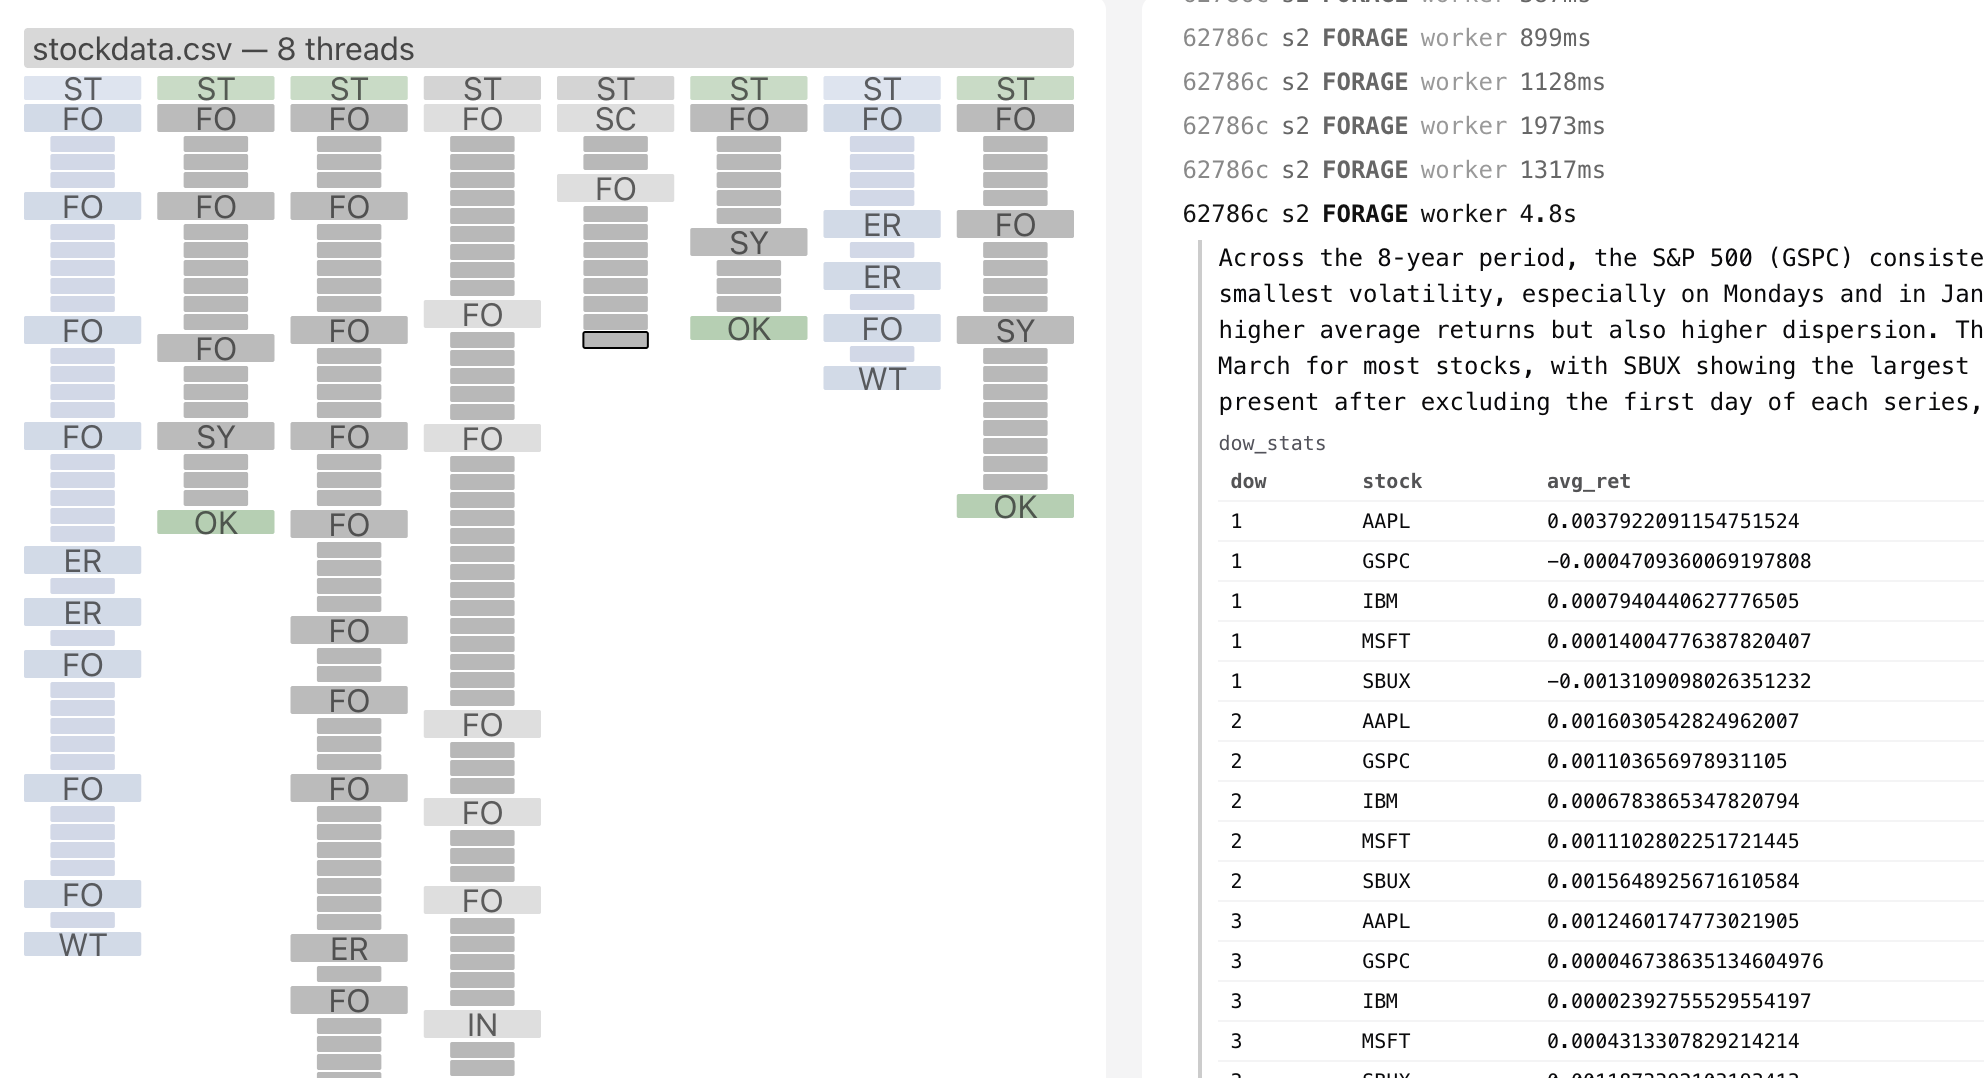
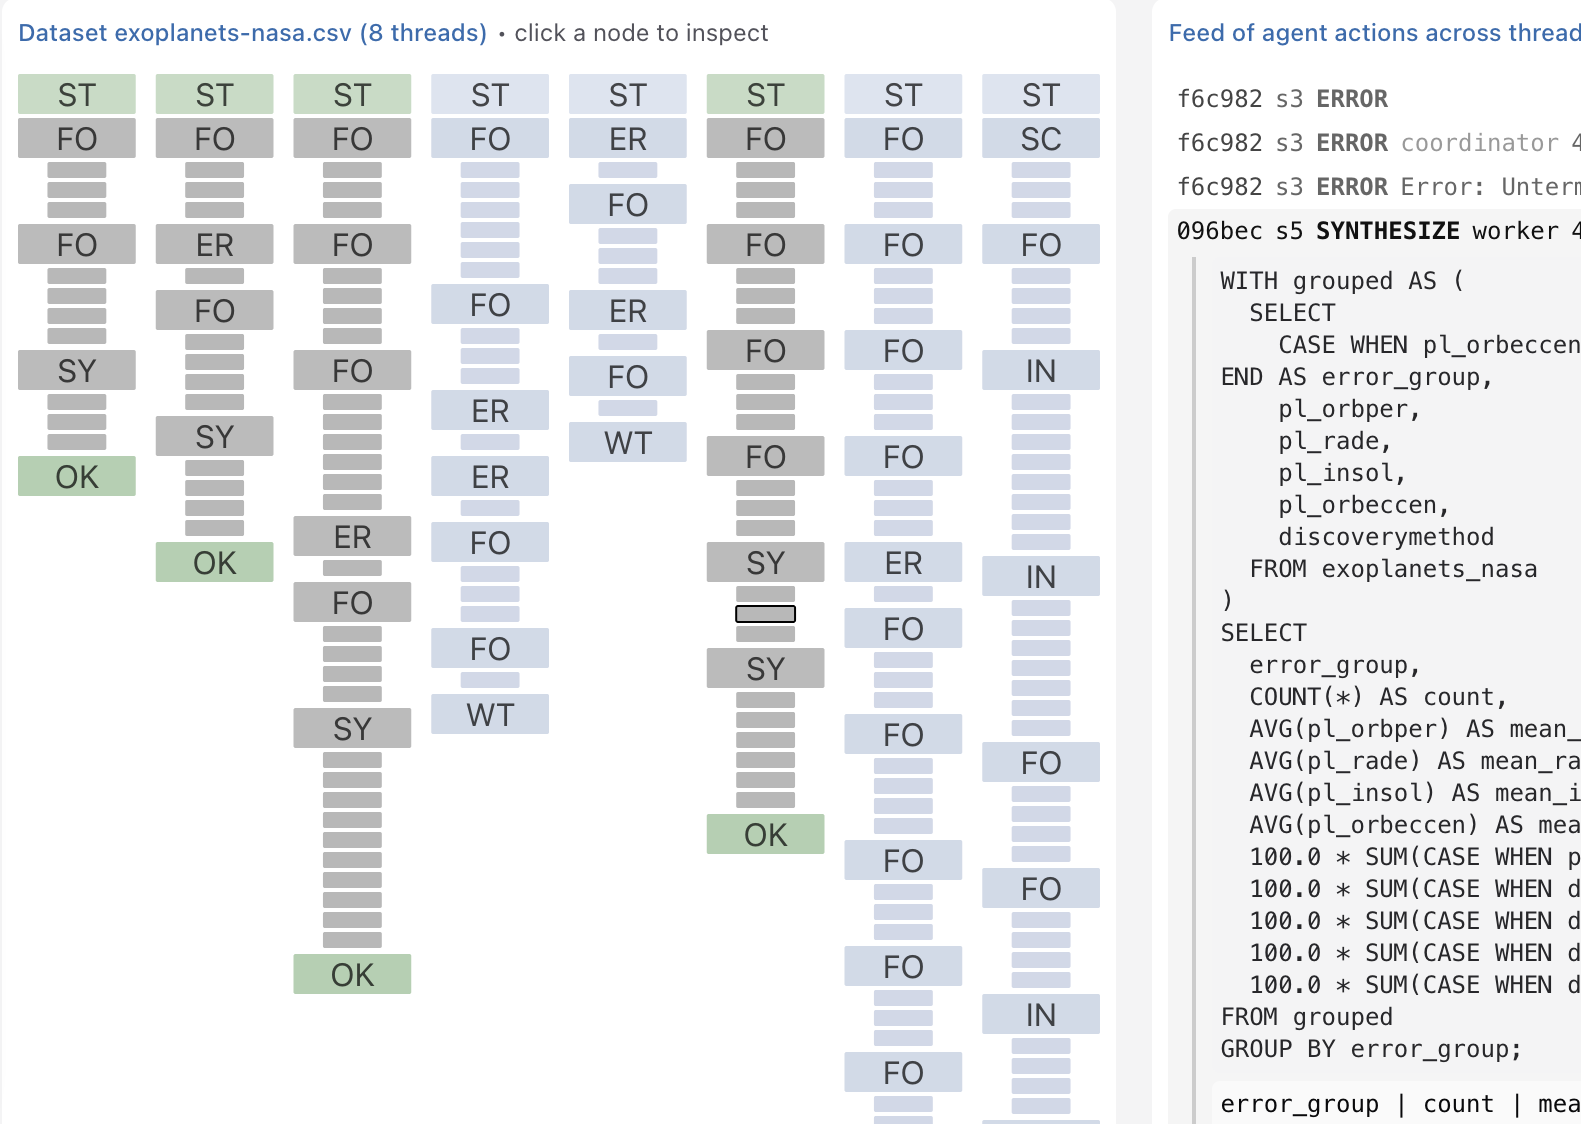
update: flow vis styles

diff --git a/src/pages/Demos/LatentInsights/index.tsx b/src/pages/Demos/LatentInsights/index.tsx
@@ -136,6 +136,7 @@ function LandingScreen() {
             gap={1}
             color="fg.muted"
             fontSize="xs"
+            variant="underline"
             fontFamily="mono"
             _hover={{ color: "fg", textDecoration: "none" }}
           >
@@ -289,7 +290,7 @@ function DashboardContent() {
       pb={2}
     >
       {/* Header */}
-      <Flex px={4} py={2} gap={4} maxW="100ch" mx="auto" align="flex-start">
+      <Flex px={4} py={2} gap={6} maxW="100ch" mx="auto" align="flex-start">
         <Box
           as="button"
           onClick={() => {
@@ -331,18 +332,11 @@ function DashboardContent() {
             step-level traces, and inline observation feeds.{" "}
             <Link
               href="https://github.com/karthikbadam/latent-insights-service"
+              variant="underline"
               target="_blank"
               rel="noopener noreferrer"
               display="inline-flex"
-              alignItems="center"
               gap={1}
-              border="1px solid"
-              borderColor="gray.focusRing"
-              borderRadius="sm"
-              px={2}
-              as="span"
-              ml={2}
-              whiteSpace="nowrap"
               color="fg.muted"
               fontSize="xs"
               fontFamily="mono"
@@ -376,10 +370,9 @@ function DashboardContent() {
           >
             <Text
               fontSize="xs"
-              fontWeight="semibold"
+              fontWeight="medium"
               color="accentSubtle"
-              mb={1}
-              px={1}
+              mb={2}
             >
               Dataset {`${datasetFileName} (${threadCountForTitle} threads)`}
               <Text as="span" fontWeight="normal" color="fg.muted" ml={1}>
@@ -402,13 +395,13 @@ function DashboardContent() {
           >
             <Text
               fontSize="xs"
-              fontWeight="semibold"
+              fontWeight="medium"
               color="accentSubtle"
-              mb={0}
-              px={3}
+              mb={2}
+              px={2}
               pt={2}
             >
-              Feed of Observations
+              Feed of agent actions across threads
               <Text as="span" fontWeight="normal" color="fg.muted" ml={1}>
                 {"• "}click a row to expand
               </Text>

diff --git a/src/pages/Demos/LatentInsights/components/FlowViz.tsx b/src/pages/Demos/LatentInsights/components/FlowViz.tsx
@@ -4,14 +4,14 @@ import { useColorModeValue } from "../../../../components/ui/color-mode";
 import { useLatentInsights } from "../../../../contexts/LatentInsightsContext";
 import { SelectedNode } from "../types";
 
-const STEP_H = 14;
+const STEP_H = 20;
 const STEP_GAP = 2;
 const EVENT_H = 8;
-const EVENT_GAP = 1;
-const EVENT_WIDTH_RATIO = 0.55;
-const THREAD_GAP = 8;
+const EVENT_GAP = 2;
+const EVENT_WIDTH_RATIO = 0.5;
+const THREAD_GAP = 10;
 const TOP_PAD = 4;
-const MARKER_H = 12;
+const MARKER_H = 20;
 
 const MOVE_ABBR: Record<string, string> = {
   SCOPE: "SC",
@@ -48,7 +48,7 @@ export const FlowViz: React.FC = () => {
   }, []);
 
   const isDark = useColorModeValue(false, true);
-  const textColor = useColorModeValue("#222", "#ddd");
+  const textColor = useColorModeValue("#000", "#fff");
   const selectedStroke = useColorModeValue("#000", "#fff");
 
   const stepFill = useCallback(

diff --git a/src/pages/Demos/LatentInsights/components/EventFeed.tsx b/src/pages/Demos/LatentInsights/components/EventFeed.tsx
@@ -196,7 +196,7 @@ export const EventFeed: React.FC = () => {
         overflowX="hidden"
         onScroll={handleScroll}
         fontFamily="mono"
-        p={4}
+        px={2}
         fontSize="xs"
         lineHeight="1.5"
       >
